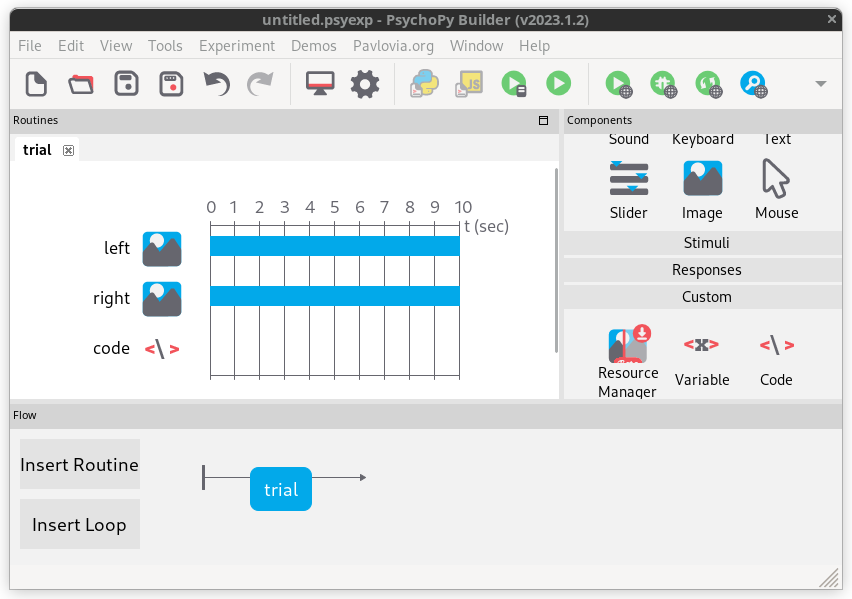
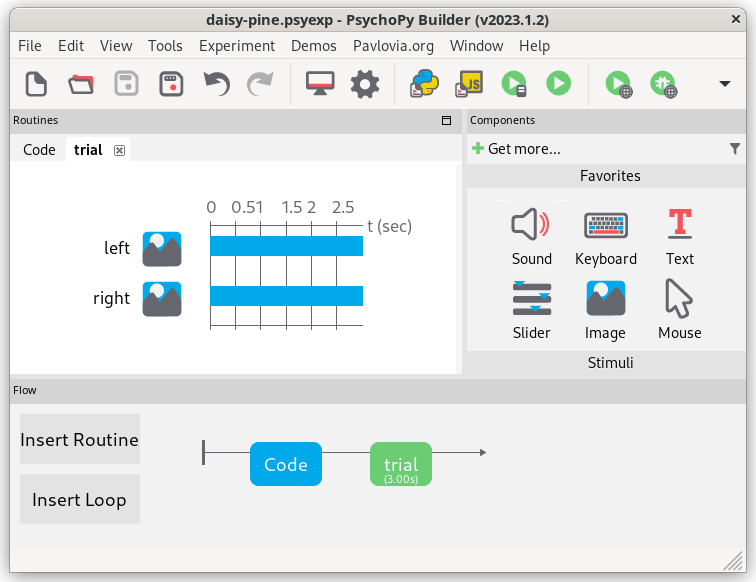
The Code block must be in a standalone routine at the beginning of the experiment

diff --git a/README.md b/README.md
@@ -23,8 +23,7 @@ In PsychoPy's Builder, this is how a minimalist experiment would be set up, with
 
 ### Specifying the conditions
 
-The Code component, which can be placed in any routine of the experiment,
-must contain, in its section “Begin Experiment”, the following code:
+The Code component, which must be placed in a separate routine located at the very beginning of the experiment, must contain, in its section “Begin Experiment”, the following code:
 
 ```python
 from autopsypy import AutoPsyPy
